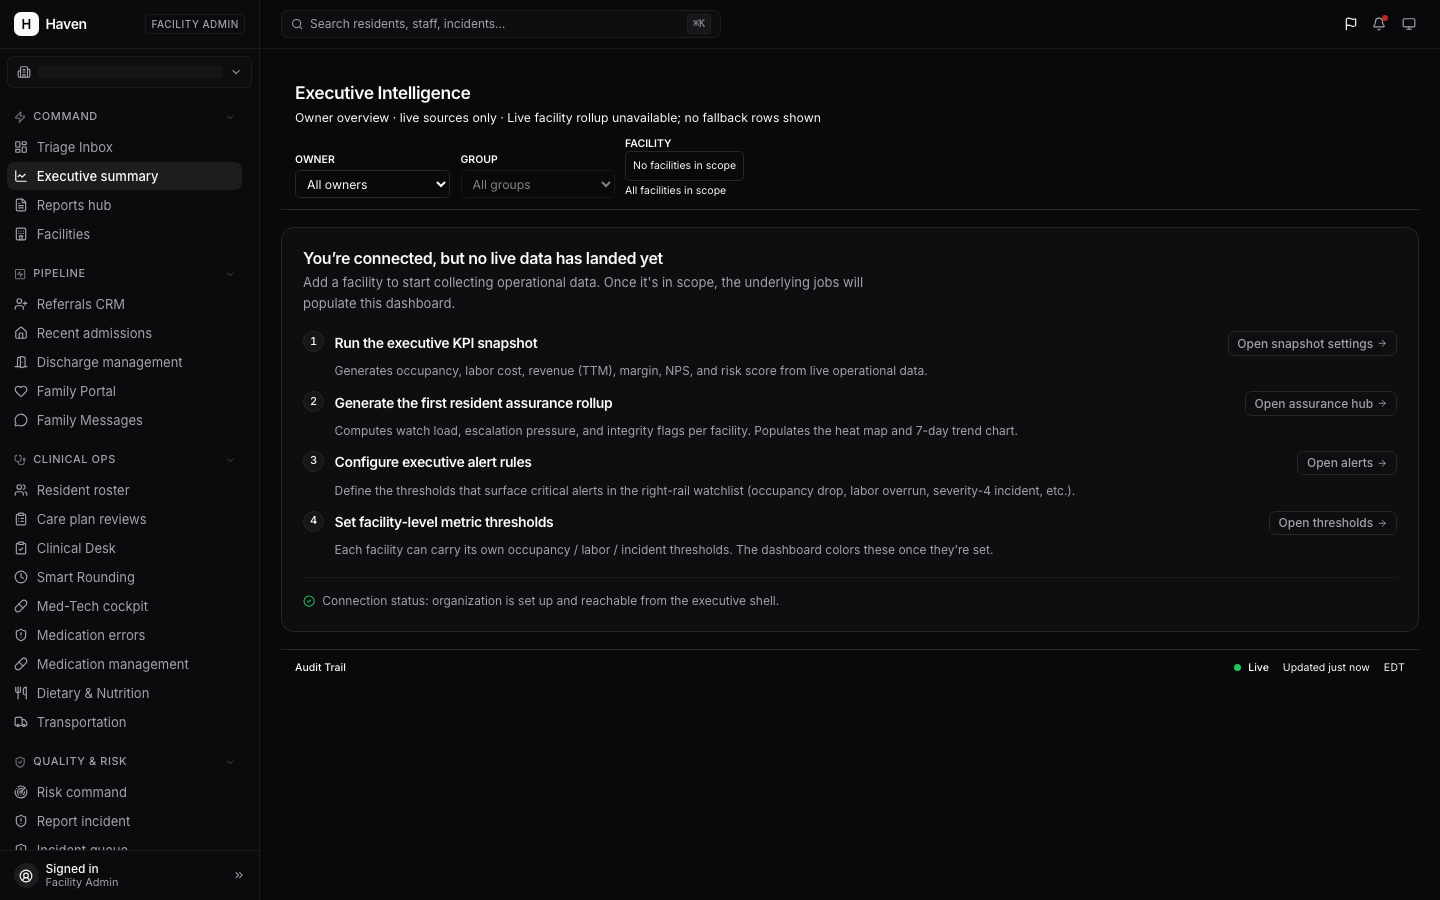
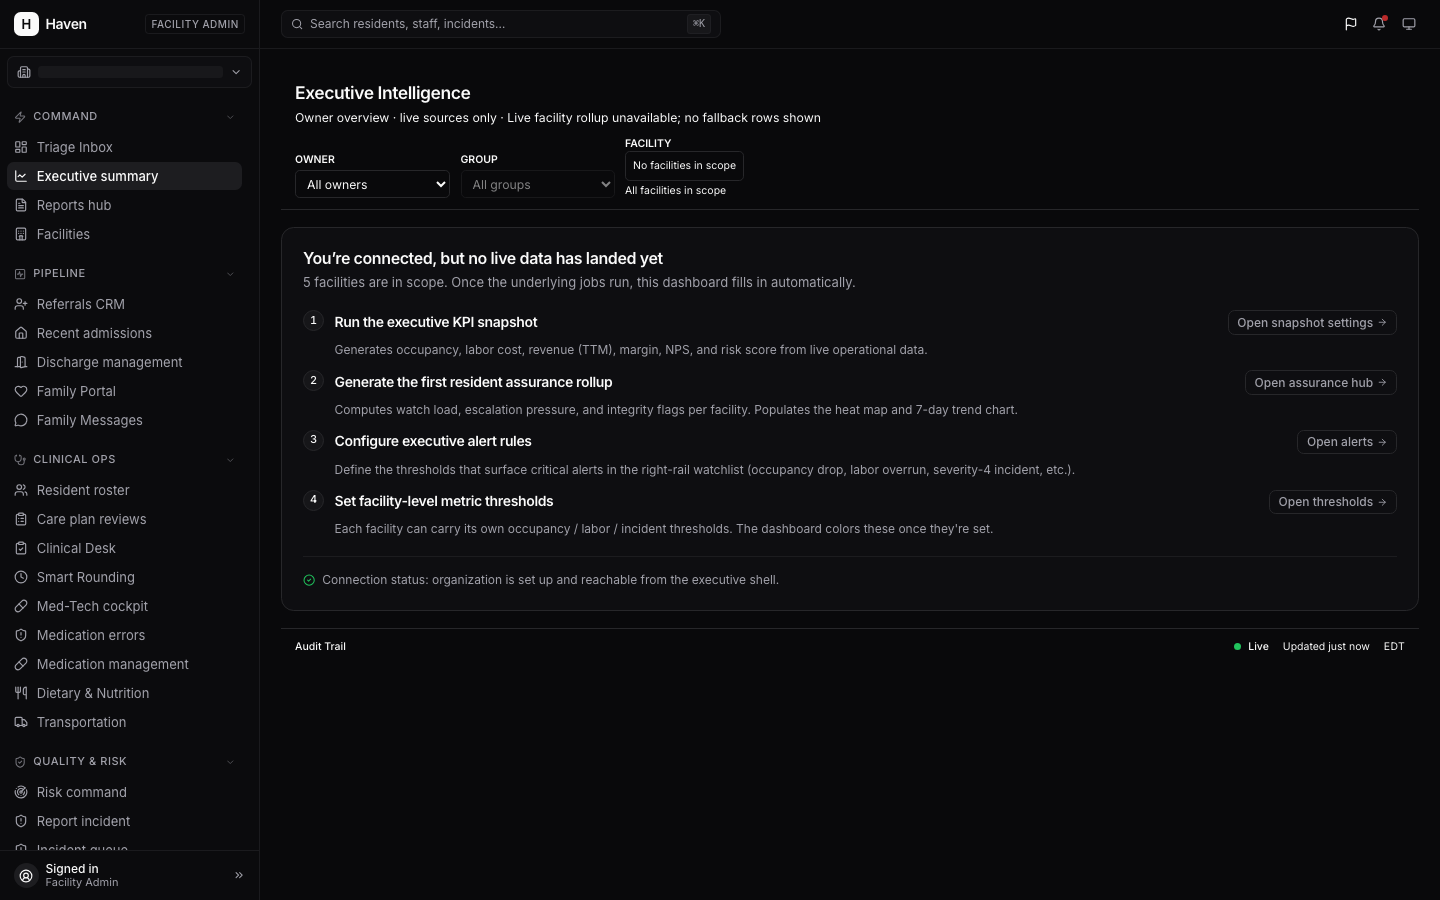
audit(phase-a8): use org facility count in V2 empty-state onboarding
The V2 onboarding card was rendering "Add a facility to start collecting
operational data" even though Homewood Lodge etc. are seeded. Two
facility loaders feed the page:

- public.facilities (RLS-scoped) — what the AdminShell sidebar reads via
  fetchAdminFacilityOptions() and what populates the facility-scope
  dropdown ("Homewood Lodge ALF").
- haven.vw_v2_facility_rollup (RLS-scoped) — what V2 reads via
  loadV2Dashboard() and what populates ScopeSelector's facility chips.
  Returns 0 rows on empty installs because the view depends on rollup
  data, which doesn't exist yet.

So the V2 ScopeSelector legitimately reported 0 facilities, and my
onboarding card honored that. But the right number for the onboarding
copy is the RLS-scoped count from public.facilities — that's "are
facilities in scope" regardless of whether rollups have fired.

## Changes

- src/lib/v2-dashboard-loader.ts
  - Added `orgFacilityCount: number` to V2DashboardLoad.
  - Loader runs an extra `SELECT id FROM public.facilities WHERE
    deleted_at IS NULL` with `count: "exact", head: true` (no rows
    transit the wire). Returns the count alongside payload + facilities.

- src/components/v2/V2DashboardPage.tsx
  - Threads `orgFacilityCount` from the loader to W1DashboardClient.

- src/components/v2/W1DashboardClient.tsx
  - New optional prop `orgFacilityCount?: number`.
  - Onboarding branch computes reportedFacilityCount as
    `Math.max(orgFacilityCount ?? 0, facilities.length, shellFacilityCount)`
[…]

diff --git a/src/components/v2/W1DashboardClient.tsx b/src/components/v2/W1DashboardClient.tsx
@@ -5,6 +5,7 @@ import type { DataTableColumn, DataTableRow } from "@/design-system/components/D
 import { PageShell } from "@/design-system/components/PageShell";
 import { ScopeSelector, type ScopeOption } from "@/design-system/components/ScopeSelector";
 
+import { useFacilityStore } from "@/hooks/useFacilityStore";
 import type { V2DashboardRowsSource } from "@/lib/v2-dashboard-loader";
 import type {
   V2DashboardId,
@@ -69,6 +70,12 @@ const COLUMNS: DataTableColumn<V2DashboardTableRow>[] = [
 export type W1DashboardClientProps = {
   payload: V2DashboardPayload;
   facilities: ScopeOption[];
+  /**
+   * Total org facilities visible under RLS (regardless of rollup data).
+   * Drives empty-install onboarding copy. Optional — falls back to
+   * `facilities.length` then to the shell facility store.
+   */
+  orgFacilityCount?: number;
   auditUpdatedAt: string;
   rowsSource: V2DashboardRowsSource;
   /** Optional `now` override for deterministic relative-time rendering in tests. */
@@ -78,6 +85,7 @@ export type W1DashboardClientProps = {
 export function W1DashboardClient({
   payload,
   facilities,
+  orgFacilityCount,
   auditUpdatedAt,
   rowsSource,
   now,
@@ -113,6 +121,7 @@ export function W1DashboardClient({
   // empty, and the panels carry the "Live source pending; no fixture value
   // is shown" subtitle. Render an onboarding card instead of the empty
   // dashboard chrome so the page tells the operator what to do next.
+  const shellAvailableFacilities = useFacilityStore((s) => s.availableFacilities);
   const allKpisEmpty = payload.kpis.every((k) => k.value === "—" || k.value == null || k.value === "");
   const allTableRowsEmpty = payload.tableRows.length === 0;
   const allAlertsEmpty = payload.alerts.length === 0;
@@ -120,6 +129,17 @@ export function W1DashboardClient({
   const isOrgEmpty = allKpisEmpty && allTableRowsEmpty && allAlertsEmpty && allActionsEmpty;
 
   if (isOrgEmpty) {
+    // Onboarding copy needs the *org* facility count, not the rollup-derived
+    // `facilities` (which is 0 on empty installs because the view returns
+    // nothing yet). Source of truth: `orgFacilityCount` from the server
+    // loader (counts public.facilities under RLS). Fallback: the shell-level
+    // facility store, populated by the AdminShell's facility-scope dropdown.
+    const shellFacilityCount = shellAvailableFacilities.length;
+    const reportedFacilityCount = Math.max(
+      orgFacilityCount ?? 0,
+      facilities.length,
+      shellFacilityCount,
+    );
     return (
       <PageShell
         title={payload.title}
@@ -137,7 +157,7 @@ export function W1DashboardClient({
           now,
         }}
       >
-        <V2EmptyOnboarding dashboardId={payload.id} facilityCount={facilities.length} />
+        <V2EmptyOnboarding dashboardId={payload.id} facilityCount={reportedFacilityCount} />
       </PageShell>
     );
   }

diff --git a/src/lib/v2-dashboard-loader.ts b/src/lib/v2-dashboard-loader.ts
@@ -14,6 +14,13 @@ export type V2DashboardRowsSource = "live" | "empty" | "unavailable";
 export type V2DashboardLoad = {
   payload: V2DashboardPayload;
   facilities: V2DashboardScopeOption[];
+  /**
+   * Total non-deleted facilities visible to the caller under RLS, regardless
+   * of whether they have rollup data yet. Drives the empty-install
+   * onboarding copy ("5 facilities are in scope") since `facilities` only
+   * contains rows the rollup view has data for and is 0 on empty installs.
+   */
+  orgFacilityCount: number;
   generatedAt: string;
   /**
    * "live" → table rows came from haven.vw_v2_facility_rollup.
@@ -85,6 +92,14 @@ export async function loadV2Dashboard(
     label: row.name,
   }));
 
+  // Org-wide facility count for the empty-install onboarding copy. Counts
+  // non-deleted facilities the caller can see via RLS. We `count: "exact"`
+  // with `head: true` so no rows transit the wire — just the count header.
+  const { count: orgFacilityCount } = await supabase
+    .from("facilities")
+    .select("id", { count: "exact", head: true })
+    .is("deleted_at", null);
+
   const generatedAt = new Date().toISOString();
 
   return {
@@ -94,6 +109,7 @@ export async function loadV2Dashboard(
       tableRows,
     },
     facilities,
+    orgFacilityCount: orgFacilityCount ?? 0,
     generatedAt,
     rowsSource,
   };

diff --git a/src/components/v2/V2DashboardPage.tsx b/src/components/v2/V2DashboardPage.tsx
@@ -31,6 +31,7 @@ export async function V2DashboardPage({ dashboardId }: V2DashboardPageProps) {
     <W1DashboardClient
       payload={load.payload}
       facilities={load.facilities}
+      orgFacilityCount={load.orgFacilityCount}
       auditUpdatedAt={load.generatedAt}
       rowsSource={load.rowsSource}
     />
